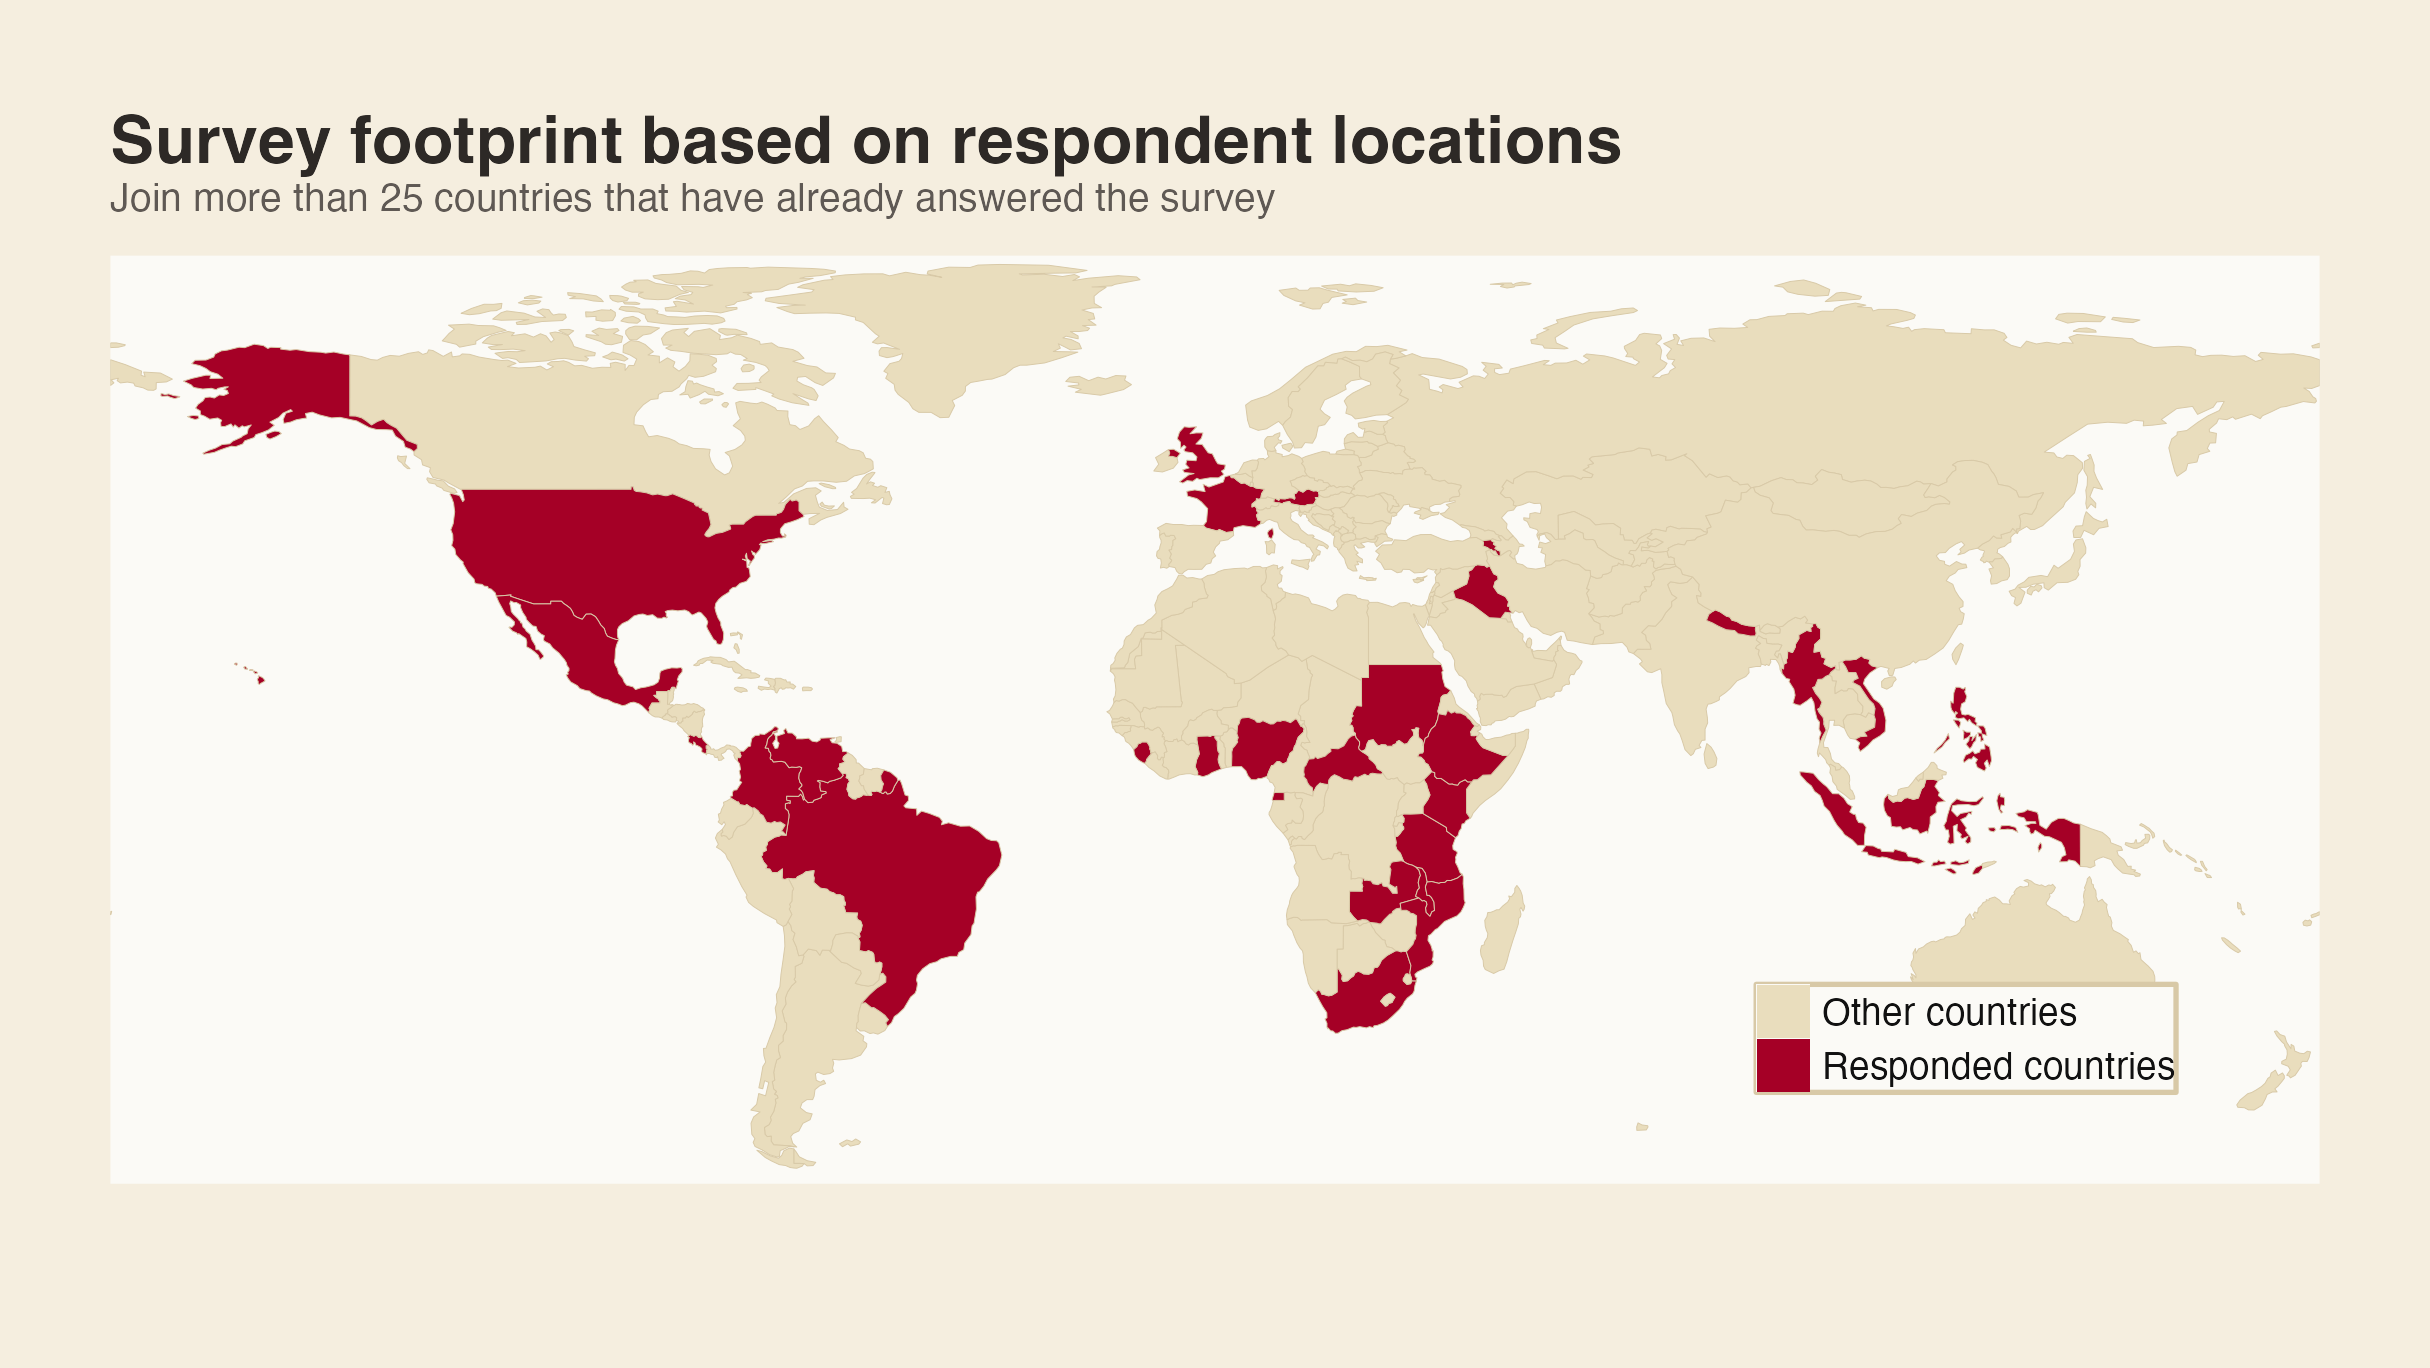
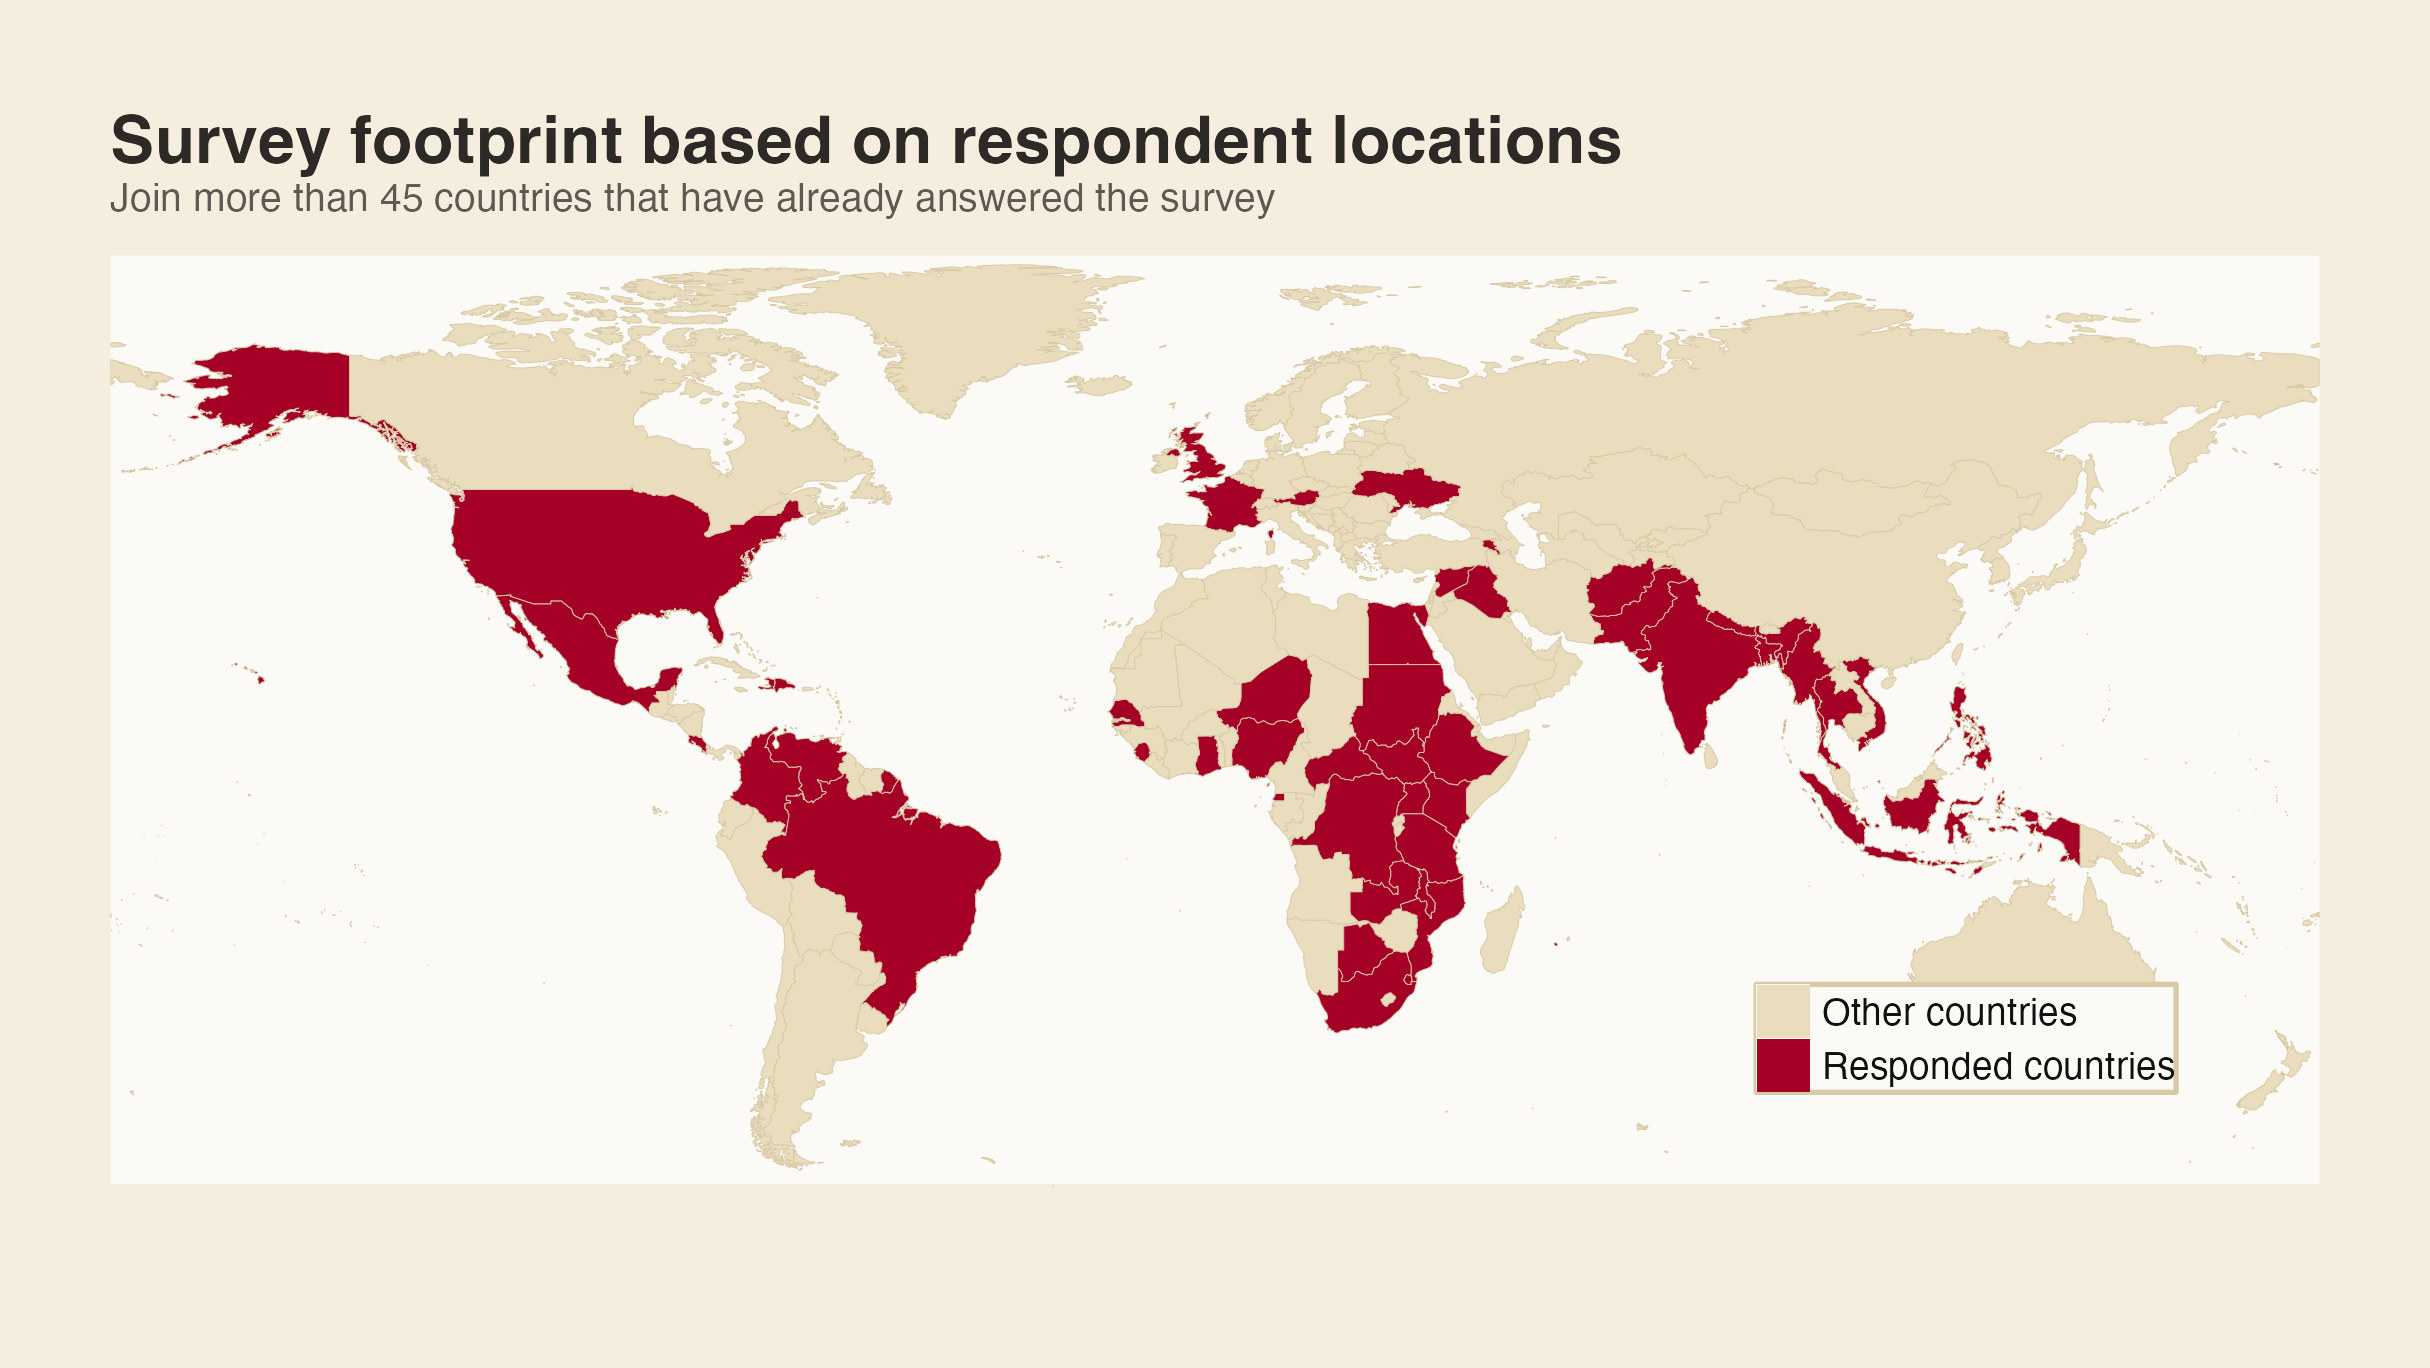
Update survey footprint map

diff --git a/survey.html b/survey.html
@@ -47,7 +47,7 @@
                     development financing and program implementation.
                 </p>
                 <p class="page-text">
-                    Join respondents from more than 25 countries who have already shared their perspective. Your
+                    Join respondents from more than 45 countries who have already shared their perspective. Your
                     response will help us better understand how these changes are being experienced in practice and
                     strengthen the evidence base for this research effort.
                 </p>
@@ -69,7 +69,7 @@
                 <div class="info-card" style="padding: 1rem; margin: 0 auto 2rem; max-width: 1160px;">
                     <img
                         src="images/survey-footprint-slide.png"
-                        alt="Survey footprint map showing more than 25 countries where respondents have already answered the survey."
+                        alt="Survey footprint map showing more than 45 countries where respondents have already answered the survey."
                         style="display: block; width: 100%; height: auto; border-radius: 10px;"
                     >
                 </div>
@@ -86,7 +86,7 @@
                         <h3>What the map is for</h3>
                         <p>
                             This map is included here as a simple invitation device: it shows that the survey is
-                            already active across more than 25 countries and encourages others to add their own
+                            already active across more than 45 countries and encourages others to add their own
                             perspective to the research.
                         </p>
                     </article>
